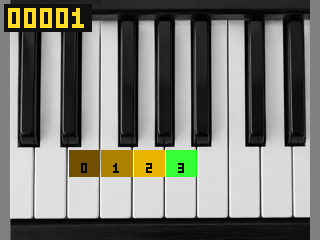
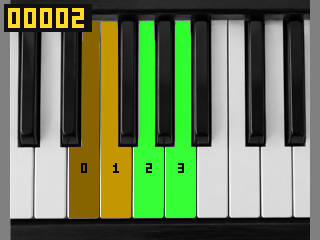
video overlay height changes (ADVAY)

Changed region(s): [[0.2188, 0.0875, 0.625, 0.9333], [0.2188, 0.0292, 0.2812, 0.1167]]

diff --git a/docs/video/README_video.md b/docs/video/README_video.md
@@ -93,7 +93,10 @@ video_pll video_pll_u (.refclk(CLOCK_50), .rst(1'b0), .outclk_0(clk_25), .locked
 * `lane_count` is the contract's `logic [GAME_COUNT_W-1:0] lane_count [0:3]`; a lower count = closer to the
   hit window = brighter key. **Tell me if your countdown runs the other way.**
 * The game view reads only the frozen Game → Video signals; nothing about the FSM.
-* Quartus lines (files, qsys, MIFs, search paths, SDC notes): `quartus/video_subsystem_files.qsf`.
+* Quartus lines (files, qsys, MIFs, SDC notes): now in Jason's `quartus/assignment2.qsf`.
+* The pictures: `video_subsystem`'s `MIF0..2` default to `"../memory/pianoN.mif"` (Quartus looks from the
+  project folder `quartus/`; a `.mif` it cannot find is only a Critical Warning and gives a black picture)
+  and `HEX0..2` to `"memory/pianoN.hex"` (the benches run from the repository root).
 * Sizes come from `rtl/common/assignment2_pkg.sv`: `video_subsystem`'s parameters are named and defaulted
   from it (`IMG_W`, `IMG_H`, `VGA_W`, `VGA_H`, `GAME_COUNT_W`; the `score` port is `SCORE_W` bits), so
   top_level needs no parameter overrides. The package must be compiled before the video files (first in
@@ -120,7 +123,7 @@ video_pll video_pll_u (.refclk(CLOCK_50), .rst(1'b0), .outclk_0(clk_25), .locked
 | SW7..SW6 | 0 = R-V4 (default), 1 = R-V3, 2 or 3 = R-V1/R-V2 (with SW5 = 0 that is R-V1, with SW5 = 1 R-V2) |
 | KEY1 / KEY2 | raise / lower the value SW0 selects: R-V3 hi (SW0=0) / lo (SW0=1), step 8/256; R-V4 k (SW0=0, steps of 0.2) / floor (SW0=1, steps of 4/256); R-V1/R-V2 the absolute threshold (step 256) |
 | KEY3 | restore every default |
-| VGA, game view | lanes lit from the game state (amber note brightening as lane_count falls, red hit window, green flash on a hit, faint blue idle), vowel id on each lane, score top-left (5 digits), red square top-right if no lanes were found |
+| VGA, game view | the four keys, each coloured over its whole real shape (round the black keys, from the top of the key to its bottom) from the game state (amber note brightening as lane_count falls, red hit window, green flash on a hit, faint blue idle), vowel id on each lane, score top-left (5 digits), red square top-right if no lanes were found |
 | VGA, debug views | top-left: mode, edge detector, number of boundaries. Profile view: yellow = normalised profile, red = high threshold (the local-average curve at R-V4), orange = low threshold, green lines = kept boundaries, magenta = dropped by the lattice |
 
 ## 4. Design decisions (for the report)
@@ -128,7 +131,17 @@ video_pll video_pll_u (.refclk(CLOCK_50), .rst(1'b0), .outclk_0(clk_25), .locked
 * **Rows 150..176** (`Y0`, `Y1`): below the black keys, where each white-key gap is a clean pair of edges, in
   *both* supplied pictures — picture 1's black keys end at row 147 and its white keys at 217; picture 2
   (letterboxed) has black keys to row 137 and white keys only to row 179, with the dark frame below. One
-  row of margin each side for the 3×3 windows. The lanes are drawn over the same rows.
+  row of margin each side for the 3×3 windows.
+* **The colour fills the real key, not a box** (`game_video_overlay`, `KEY_SHAPE = 1`). The key finder gives
+  each lane's left and right boundary; the rest of the outline is read from the displayed picture: the key's
+  white level is the mean of 8 pixels down its centre column in the analysed rows; a pixel is "key white" if
+  it is at least 5/8 of that (black keys, gaps and the frame are far darker; 3/4 was tried in the Python
+  prototype and broke on the photo-like picture's gradient and noise, 5/8 held on all three); the key's top
+  and bottom are the ends of the unbroken key-white run down the centre column through the analysed rows; the
+  key is every key-white pixel between its two boundaries and between top and bottom. Measured one frame,
+  used the next (the picture is static): the first two frames after the lanes change, or a lane where no run
+  is found, show the plain band of rows 150..176 as before. Nothing about the keys is typed in. Cost: a few
+  registers and comparators per lane, no memory.
 * **Normalise by the maximum** (R-V3): every threshold becomes a fraction, independent of picture brightness and
   of the detector (Sobel's 1-2-1 weights give 4× the 1-D difference). 0.45 / 0.25 (115 / 64 of 256) read both
   supplied pictures. Picture 1's boundaries range from 0.48 to 1.0 of the strongest, so the earlier 0.70 / 0.35
@@ -208,8 +221,8 @@ New: `profile_normalise`, `hysteresis_profile`, `local_threshold`, `key_mask_gen
 | `local_threshold_tb` | window ends, spike, step (shadow), saturation, k = 0, 50 random |
 | `hysteresis_profile_tb` | strong / weak-beside-strong / lone weak / false peaks below lo / plateau; adaptive shadowed half; overflow; 300 random |
 | `key_mask_generator_tb` | lattice, shadow edge, missed boundary, too few keys, fixed `lane_first`, middle keys on both supplied pictures' lists; 300 random lists |
-| `game_video_overlay_tb` | 24 frames into the VGA monitor model with 20 % stalls: 0 protocol errors; lane colours from the latched game state; the digit font — every pixel of the score with all ten digits, the vowel id on each lane, the debug readout; no-keys marker; every debug view; game state and view changed mid-frame; hit flash; reset mid-frame |
-| `video_subsystem_tb` | the integrated path as top_level uses it, two asynchronous clocks, mock game. **Key finder, exact:** every rung × both detectors × three pictures against a reference the bench computes from the pixels (boundaries, kept flags, spacing, lanes, every profile-view column, every edge-map pixel swept, no detector output outside the valid picture) — this covers the 1-D detector, the rung selection and the latency/coordinates. **Against the truth:** every rung reads both supplied pictures, only R-V4 the photo-like one. **Display:** the CDC copy, four views per picture checked and saved as PNG. **Thresholds:** bounced and held presses = one step, SW0/mode selection, clamps, KEY3, and results with moved thresholds exact. **Play and reset:** hits drawn, reset of both domains mid-frame; 0 protocol problems |
+| `game_video_overlay_tb` | 24 frames into the VGA monitor model with 20 % stalls: 0 protocol errors; lane colours from the latched game state; **the key shape** — the mock picture is a small keyboard and the bench's own outline of each key is compared at 12 pixels per lane (on the key beside a black key, on the black key, below the analysed rows, on the gap, in the frame, on bright patches above and touching the key, on a mid-grey smudge), with the plain band expected for the first two frames after the lanes change; the digit font — every pixel of the score with all ten digits, the vowel id on each lane, the debug readout; no-keys marker; every debug view; game state and view changed mid-frame; hit flash; reset mid-frame |
+| `video_subsystem_tb` | the integrated path as top_level uses it, two asynchronous clocks, mock game. **Key finder, exact:** every rung × both detectors × three pictures against a reference the bench computes from the pixels (boundaries, kept flags, spacing, lanes, every profile-view column, every edge-map pixel swept, no detector output outside the valid picture) — this covers the 1-D detector, the rung selection and the latency/coordinates. **Against the truth:** every rung reads both supplied pictures, only R-V4 the photo-like one. **Display:** the CDC copy, four views per picture checked and saved as PNG; in the game and mask views the colour must run up the key between the black keys (row 100), miss the black key beside it, and stay off the frame above and below. **Thresholds:** bounced and held presses = one step, SW0/mode selection, clamps, KEY3, and results with moved thresholds exact. **Play and reset:** hits drawn, reset of both domains mid-frame; 0 protocol problems |
 
 The checks of the modules that were folded in (1-D detector, digit font, threshold keys, key finder) moved
 into the last two benches; five deliberate faults in `video_subsystem.sv` (no left-neighbour check, no
